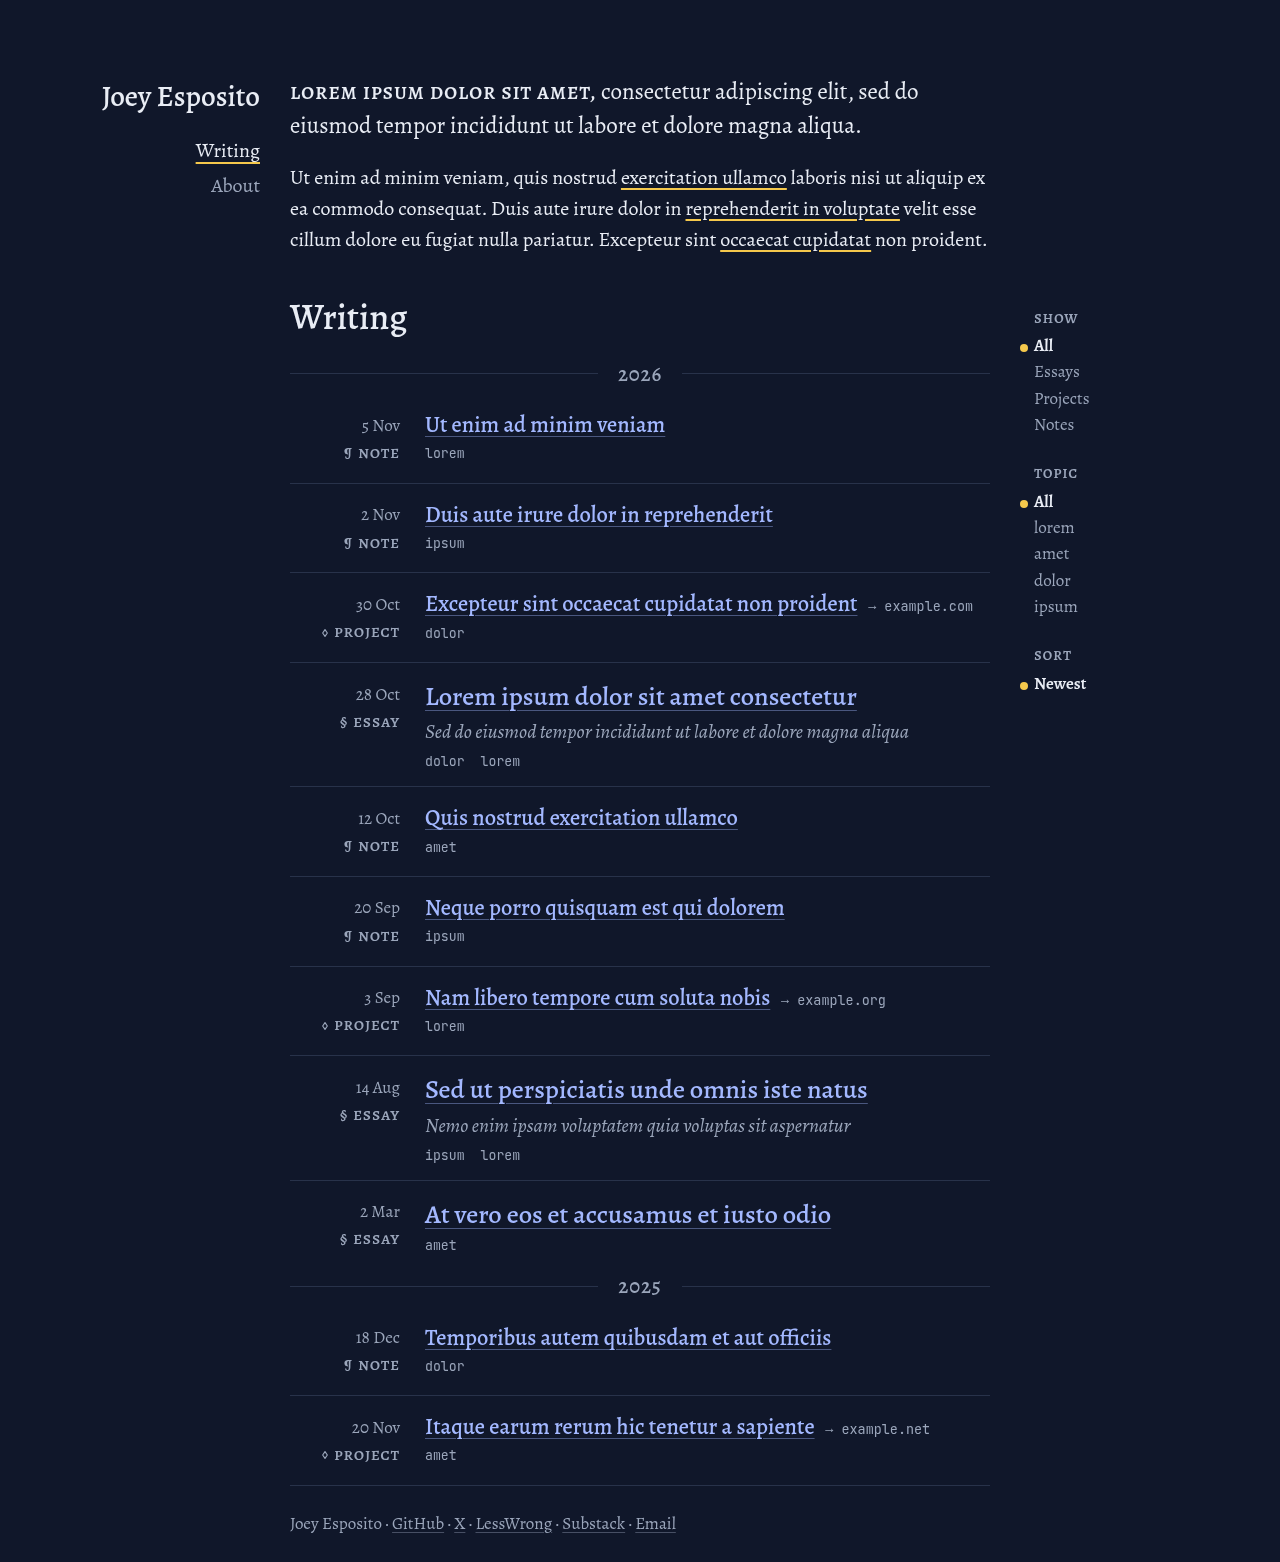
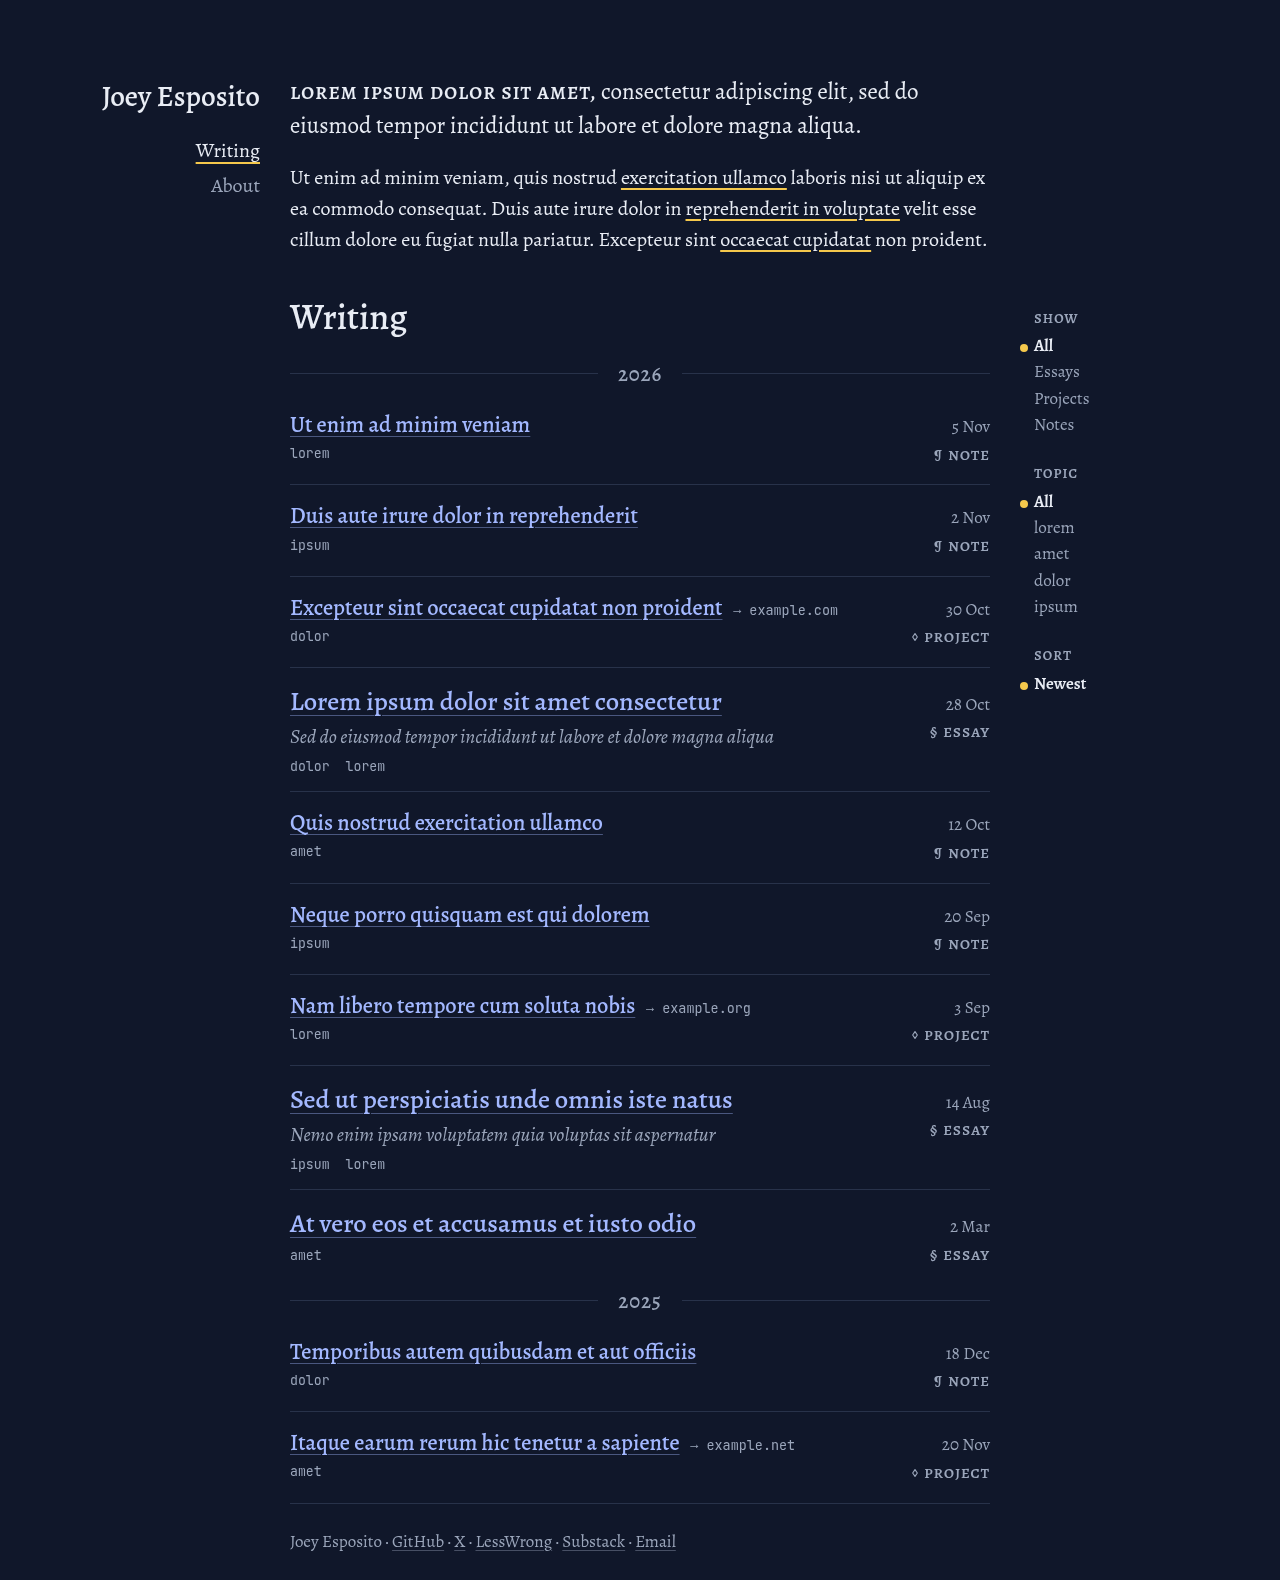
Set each entry's date and type at the right edge at every width
Titles, subtitles and topics now start flush with the text's left edge.

diff --git a/src/styles/global.css b/src/styles/global.css
@@ -213,8 +213,8 @@ body:has(.prose-page) .site-footer { margin-top: 2rem; }
 /* A year's divider closes the year before it, so the entry above it needs no rule. */
 .entry:has(+ .year) { border-bottom: 0; }
 
-/* On phones the title column comes first and the date and type stand at the right, level with
-   the title's first line; from 40rem the date column moves to the left. */
+/* The title, subtitle and topics are flush with the text's left edge; the date and type stand
+   at its right edge, level with the title's first line. */
 .entry { display: grid; grid-template-columns: minmax(0, 1fr) auto; align-items: first baseline; column-gap: 1rem; padding: 0.8rem 0; border-bottom: 1px solid var(--rule); }
 /* The footer's rule closes the list, so the last entry needs none of its own. */
 .entry:last-child { border-bottom: 0; }
@@ -234,11 +234,6 @@ body:has(.prose-page) .site-footer { margin-top: 2rem; }
 .yr { display: none; }
 .post-list[data-sort='popular'] .yr { display: inline; }
 
-@media (min-width: 40rem) {
-  .entry { grid-template-columns: 5.5rem minmax(0, 1fr); align-items: start; column-gap: 1.25rem; }
-  .entry .meta { grid-column: 1; padding-top: 0.12rem; }
-  .entry .content { grid-column: 2; }
-}
 
 /* ---------- Posts ---------- */
 .post-header { margin-bottom: 2rem; }

diff --git a/DESIGN.md b/DESIGN.md
@@ -97,7 +97,7 @@ Meta 0.85–0.92rem. Inline code 0.8em; code blocks 0.72rem (14.4px).
 | Base layout | `src/layouts/Base.astro` | Head (title, description, canonical, Open Graph and Twitter card tags, feed discovery links, `rel="me"` profile links, a `head` slot), header, footer with profile links |
 | Intro | `src/components/Intro.astro` | Prose paragraph in Joey's voice. The first words are set in small capitals (`.lede strong`). Links are underlined in sunflower; topic links open the list pre-filtered (`/?tag=…#writing`). No drop cap. |
 | PostFilters | `src/components/PostFilters.astro` | Radio groups Show (All/Essays/Projects/Notes), Topic (tags by frequency), Sort (Newest/Most popular). The post count is read to screen readers but not shown, except to say view counts are loading or unavailable. Hidden until its script runs. A type with no posts in the chosen topic fades. State is mirrored in the query string, so filtered views are linkable. Sort always shows "Newest"; "Most popular" appears once `VIEWS_URL` is set, and fetches the view counts once, and if they fail to load the list falls back to newest and says so. |
-| PostList | `src/components/PostList.astro` | Under a "Writing" heading (centred below 80rem). Year dividers (centred year between hairlines) and ruled entries, spaced alike. On phones (below 40rem) an entry's date and type stand at the right, level with the title's first line, and the title column is flush left; from 40rem the date column is on the left; a year's divider takes the place of the rule under the entry above it, and the footer's rule closes the list: date column (date, type mark) and title column (title link, a project's "→ host" repo link in mono, essay subtitle in italic, topic links in mono). Sorted by views, the dividers disappear and each date shows its year. |
+| PostList | `src/components/PostList.astro` | Under a "Writing" heading (centred below 80rem). Year dividers (centred year between hairlines) and ruled entries, spaced alike. At every width an entry's title, subtitle and topics are flush with the text's left edge, and its date and type stand at the right edge, level with the title's first line; a year's divider takes the place of the rule under the entry above it, and the footer's rule closes the list: date column (date, type mark) and title column (title link, a project's "→ host" repo link in mono, essay subtitle in italic, topic links in mono). Sorted by views, the dividers disappear and each date shows its year. |
 | Article | `src/components/Article.astro` | Post header (title, subtitle, meta line, epistemic status), contents, body, end mark, discussion links, citation, signup. |
 | Contents | `src/components/Contents.astro` | Essays with two or more headings. Box above the text on narrow screens; sticky right rail on wide ones. |
 | EndMark | `src/components/EndMark.astro` | Small sun between two short rules, closing an essay. |
